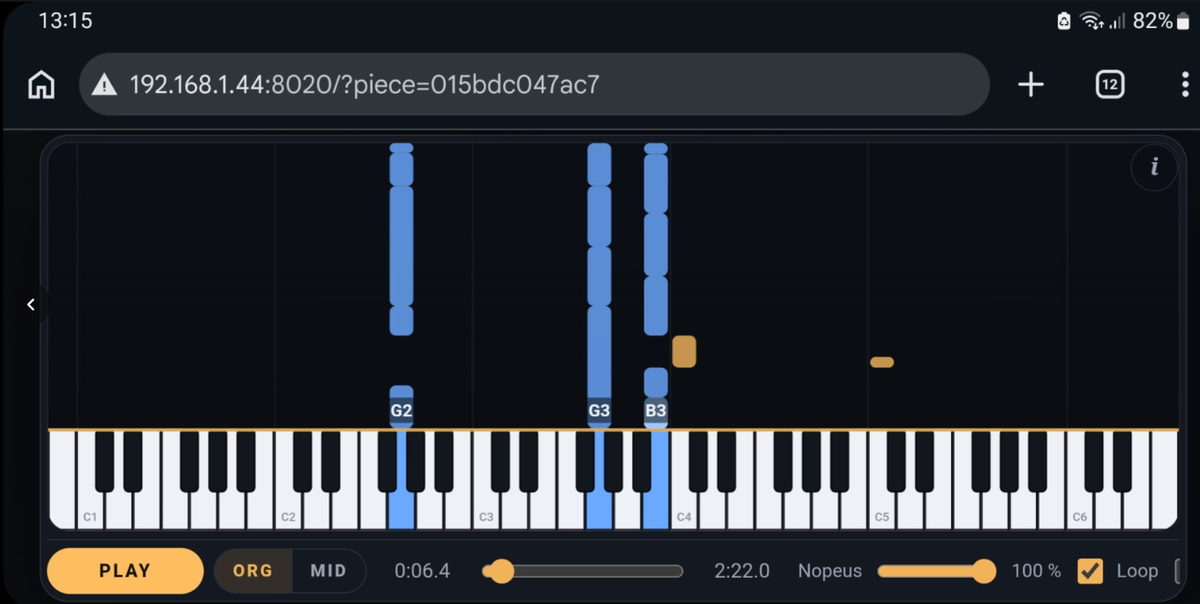
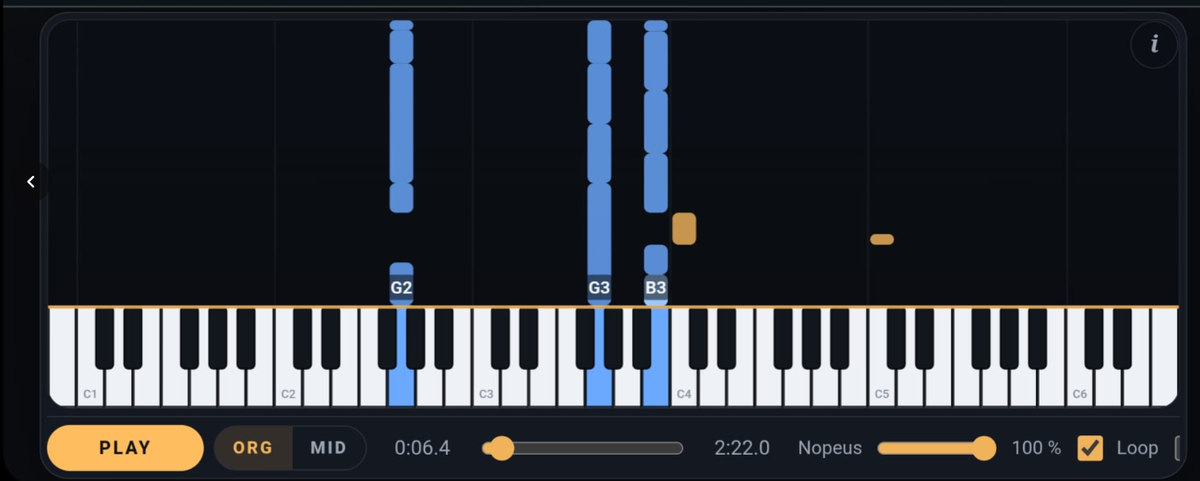
fix(promo): omit LAN address and blur phone QR in PianoCapture shots

diff --git a/index.html b/index.html
@@ -1107,7 +1107,7 @@
               <span class="cap" data-fi="Työpöytä">Desktop</span>
             </button>
             <button class="shot" type="button">
-              <img src="assets/tools/pianocapture/android-landscape.png" width="1200" height="604" loading="lazy" decoding="async" alt="PianoCapture on an Android phone in landscape: falling notes above the keyboard and the one-row playback controls">
+              <img src="assets/tools/pianocapture/android-landscape.png" width="1200" height="481" loading="lazy" decoding="async" alt="PianoCapture on an Android phone in landscape: falling notes above the keyboard and the one-row playback controls">
               <span class="cap" data-fi="Android">Android</span>
             </button>
             <button class="shot" type="button">
